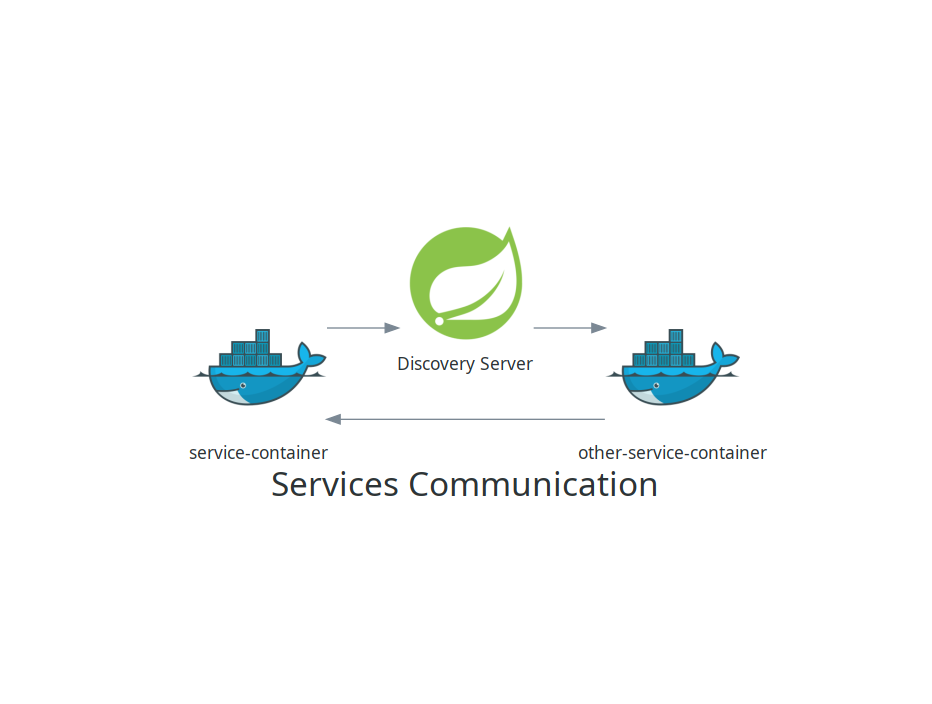
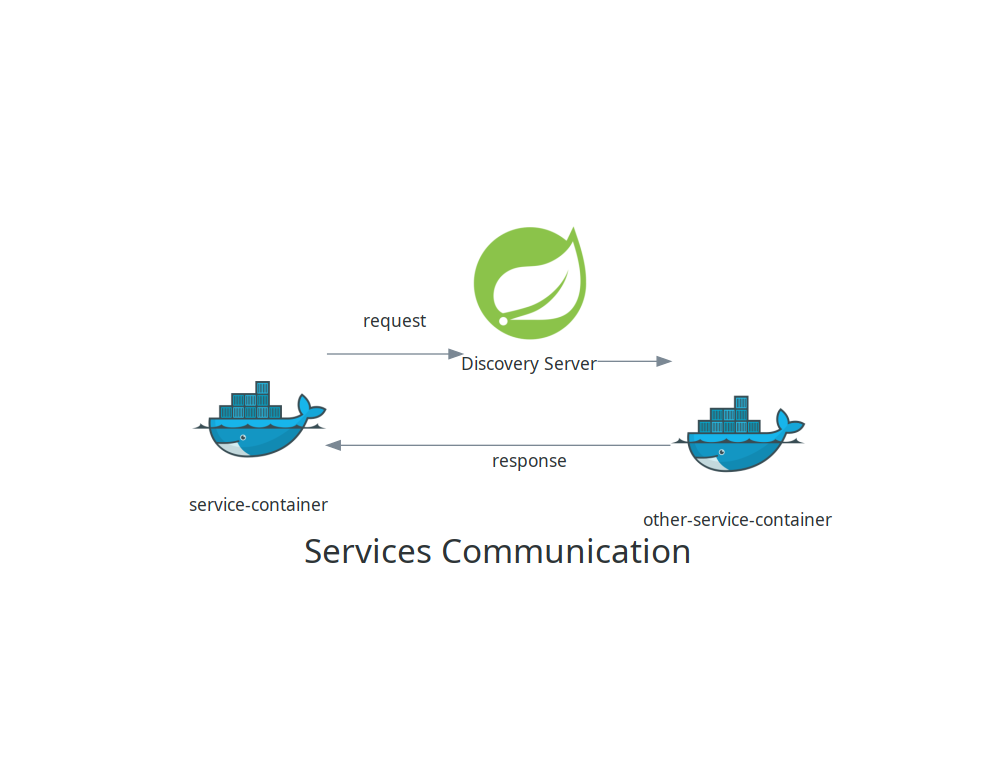
docs: improves docs

Changed region(s): [[0.1867, 0.4688, 0.8401, 0.75], [0.3423, 0.2812, 0.6534, 0.5312]]

diff --git a/docs/diagrams/project_overview.py b/docs/diagrams/project_overview.py
@@ -14,17 +14,19 @@ with Diagram("Project Overview", graph_attr=graph_attr):
     user = Users("Users")
     gateway = Spring("Gateway")
     discovery = Spring("Eureka Discovery")
-    security = Docker("security-service")
-    posts = Docker("posts-service")
-    followers = Docker("followers-service")
     notification = Docker("notification-service")
-    etc = Docker("[...]")
+
+    with Cluster("Services"):
+        security = Docker("security-service")
+        posts = Docker("posts-service")
+        followers = Docker("followers-service")
+        etc = Docker("[...]")
+        services = [security, posts, followers, etc]
 
     with Cluster("CD/CI"):
-        cdci_group = Github() >> GithubActions("GitHub Actions")
+        cdci_group = Github() >> Edge(label="push") >> GithubActions("GitHub Actions")
 
     notification >> user
-    user >> gateway >> discovery >> \
-        [security, posts, followers, etc] >> discovery
+    user >> Edge() << gateway >> Edge() << discovery >> Edge() << services
 
     Edge() >> cdci_group

diff --git a/docs/diagrams/backend_structure/how_notifications_work.py b/docs/diagrams/backend_structure/how_notifications_work.py
@@ -1,0 +1,17 @@
+from diagrams import Diagram, Cluster, Edge
+from diagrams.onprem.client import User
+from diagrams.onprem.inmemory import Redis
+from diagrams.programming.framework import Spring
+
+with Diagram("\nHow Notifications Work"):
+    creator = User("Notification Creator")
+    posts_service = Spring("Posts Service")
+    receiver = User("Notification Receiver")
+
+    with Cluster("Notification System"):
+        notification_service = Spring("Notification Service")
+        notification_db = Redis("Notification Database")
+        notification_system = [notification_service >> Edge() << notification_db]
+
+    creator >> Edge(label="replies to post") >> posts_service >> Edge(label="fires event") >> notification_service
+    notification_service >> Edge(label="websocket", color="red") << receiver

diff --git a/docs/diagrams/backend_structure/gateway_and_service_discovery.py b/docs/diagrams/backend_structure/gateway_and_service_discovery.py
@@ -1,4 +1,4 @@
-from diagrams import Diagram, Cluster
+from diagrams import Diagram, Cluster, Edge
 from diagrams.generic.database import SQL
 from diagrams.generic.os import LinuxGeneral
 from diagrams.onprem.client import User
@@ -23,6 +23,6 @@ with Diagram("Gateway and Service Discovery", graph_attr=graph_attr):
         other_service = Docker("service-container")
         other_service - [SQL("service-database"), LinuxGeneral("service-api")]
 
-    user >> gateway
-    gateway - [discovery]
-    discovery >> [sample_service, other_service] >> discovery
+    user >> Edge() << gateway
+    gateway >> Edge() << discovery
+    discovery >> Edge() << [sample_service, other_service]

diff --git a/docs/diagrams/backend_structure/services_communication.py b/docs/diagrams/backend_structure/services_communication.py
@@ -1,4 +1,4 @@
-from diagrams import Diagram
+from diagrams import Diagram, Edge
 from diagrams.onprem.container import Docker
 from diagrams.programming.framework import Spring
 
@@ -12,4 +12,4 @@ with Diagram("Services Communication", graph_attr=graph_attr):
     other_service = Docker("other-service-container")
     discovery = Spring("Discovery Server")
 
-    service >> discovery >> other_service >> service
+    service >> Edge(label="request") >> discovery >> other_service >> Edge(label="\nresponse") >> service

diff --git a/BACKEND_STRUCTURE.md b/BACKEND_STRUCTURE.md
@@ -11,3 +11,9 @@ This project has small, autonomous containers with different services and databa
 Services request the service discovery server for other services' information (IP address, port) when they communicate with each other, just like when users make a request.
 
 ![Services Communication](docs/diagrams/backend_structure/services_communication.png)
+
+## Notifications
+
+In this example, a user replies to another users' post. After handling the reply logic, the `Posts Service` fires an event warning the `Notification Service` to show the post creator a notification.
+
+![Notification System](docs/diagrams/backend_structure/how_notifications_work.png)

diff --git a/docs/diagrams/README.md b/docs/diagrams/README.md
@@ -1,6 +1,7 @@
 # How to Run
 
-You will need to have [Python](https://www.python.org/downloads/), [Pip](https://pypi.org/project/pip/) and [Graphviz](https://www.graphviz.org/download/) installed.
+You will need to have [Python](https://www.python.org/downloads/), [Pip](https://pypi.org/project/pip/)
+and [Graphviz](https://www.graphviz.org/download/) installed.
 
 ```py
 # (inside /docs/diagrams)

diff --git a/README.md b/README.md
@@ -12,7 +12,7 @@ Signals is an open-source live-sharing character-limited-posting social media. I
 
 [Learn more about it here](BACKEND_STRUCTURE.md).
 
-![Simplified project diagram](./docs/diagrams/project_overview.png)
+![Simplified project diagram v2](./docs/diagrams/project_overview.png)
 
 ## Front-end and UI/UX
 
